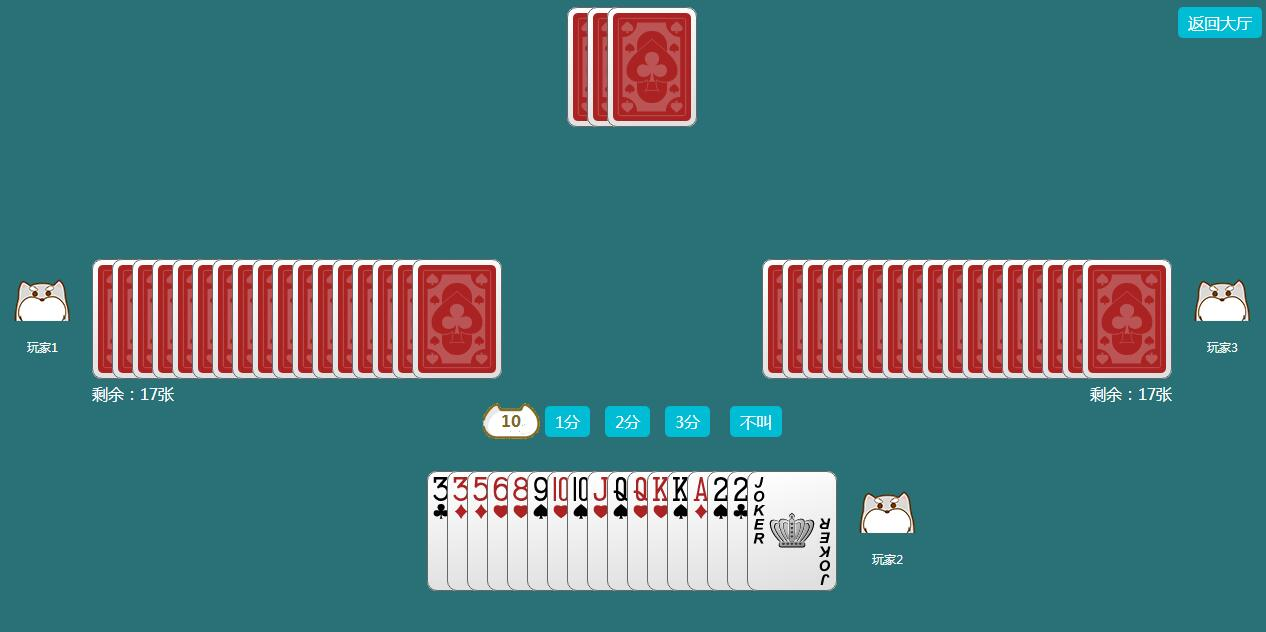
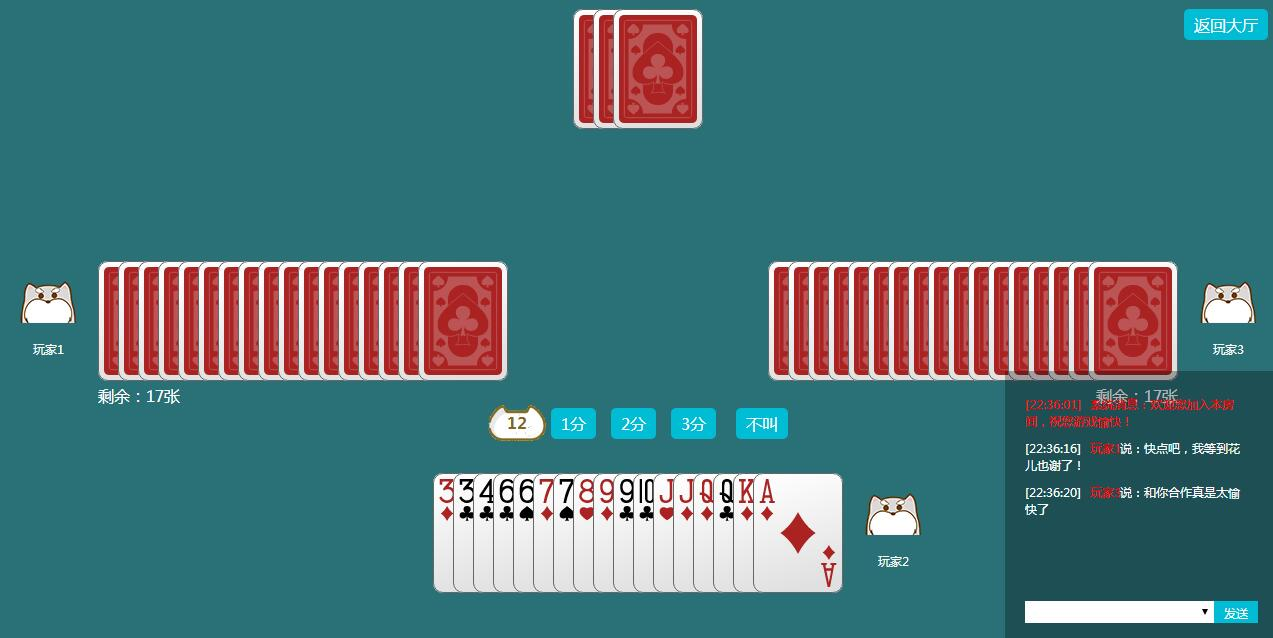
fixbug&add quick-join function

diff --git a/static/index.html b/static/index.html
@@ -3,19 +3,19 @@
 
 <head>
   <meta charset="UTF-8">
-  <meta name="viewport" content="width=device-width, initial-scale=1.0">
+  <meta name="viewport" content="width=device-width, initial-scale=1.0, minimum-scale=1.0, maximum-scale=1.0, user-scalable=no">
   <meta http-equiv="X-UA-Compatible" content="ie=edge">
-  <title>斗地主</title>
+  <title>在线斗地主</title>
   <link rel="stylesheet" href="/css/style.css">
 </head>
 
 <body>
   <div id="app" v-cloak>
-
+    <!-- 登录界面 -->
     <div class="full-screen login-wrapper" v-if="where === 0">
       <div class="login-panel  layout-center">
         <div class="row title">
-          欢迎来到Remember世界
+          登录游戏服务器
         </div>
         <div class="login-form">
           <input type="text" class="input" placeholder="给自己取一个名字" v-model.trim="posState.self.name" @keyup.enter="login"><button
@@ -27,6 +27,9 @@
 
     <!-- 大厅 -->
     <div class="full-screen house" v-if="where === 1">
+      <div class="row text-right quick-bar">
+        <button @click="quickJoin">快速加入</button>
+      </div>
       <div v-for="desk in desks" class="desk">
         <div v-for="position in desk.positions" class="position" :class="{has:position.state,position0:position.posId === 0,position1:position.posId === 1,position2:position.posId === 2}">
           <span class="position-image" :class="{has:position.state}" @click="sitDown(desk.deskId,position)">
@@ -185,13 +188,13 @@
       <div class="msg-box">
         <div class="msg-list scroll-bar" ref="msgBox">
           <div class="msg-item" v-for="msg in msgList" :key="msg.id">
-            <span  v-if="msg.type === 'USER'">
-                <span class="msg-item-time">[{{msg.time}}]</span>
-                <span style="color:red">{{msg.name}}</span> 说：{{msg.content}}
+            <span v-if="msg.type === 'USER'">
+              <span class="msg-item-time">[{{msg.time}}]</span>
+              <span style="color:red">{{msg.name}}</span> 说：{{msg.content}}
             </span>
             <span style="color:red;padding:15px 0" v-if="msg.type === 'SYS'">
-                <span class="msg-item-time">[{{msg.time}}] </span>系统消息：{{msg.content}}
-              </span>
+              <span class="msg-item-time">[{{msg.time}}] </span>系统消息：{{msg.content}}
+            </span>
           </div>
         </div>
         <input type="text" class="input msg-input" ref="msgInput" @keyup.enter="sendMessage(false)">
@@ -224,10 +227,12 @@
       data: function () {
         return {
           msgBox: [
-            '我住优客逸家2年了',
-            '优客逸家的服务还是可以！',
-            '优客的的官方APP是‘喵了隔壁’？',
-            '喵了隔壁的，该你出牌了'
+            '你的牌打得太好了',
+            '快点吧，我等到花儿也谢了！',
+            '不要走，决战到天亮。',
+            '和你合作真是太愉快了',
+            '你是GG还是MM？',
+            '不要吵了，专心玩游戏吧！',
           ],
           msgList: [],//聊天消息
 
@@ -312,6 +317,15 @@
           this.client.on('LOGIN_FAIL', function (data) {
             layer.closeAll();
             layer.msg(data.msg);
+          }.bind(this));
+
+          this.client.on('QUICK_JOIN', function (data) {
+            if (data.success) {
+              this.client.emit('SITDOWN', { deskId: data.deskId, posId: data.posId })
+            } else {
+              layer.closeAll();
+              layer.msg('快速加入失败');
+            }
           }.bind(this));
 
 
@@ -750,6 +764,10 @@
           if (msg) {
             this.client.emit('USER_MESSAGE', msg);
           }
+        },
+        quickJoin: function () {
+          layer.load({ type: 3 });
+          this.client.emit('QUICK_JOIN');
         }
       }
     })

diff --git a/server.js b/server.js
@@ -44,7 +44,7 @@ var guid = function () {
 function GameServer(port) {
   this.clients = [];
   this.port = port;
-  this.desks = createDeskList(100);
+  this.desks = createDeskList(20);
   this.gameDatas = {};
 }
 const proto = {
@@ -212,6 +212,35 @@ const proto = {
         }
       });
 
+      //快速加入
+      socket.on('QUICK_JOIN', () => {
+        var ret = [];
+        this.desks.forEach(desk => {
+          let n = 0;
+          let item = {
+            deskId: desk.deskId,
+            positions: []
+          };
+          const positions = desk.positions;
+          positions.forEach(pos => {
+            if (pos.state > 0) {
+              n++;
+            } else {
+              item.positions.push(pos.posId)
+            }
+          });
+          if (n <= 2) {
+            ret.push(item);
+          }
+        });
+        ret = ret.sort((a, b) => {
+          return a.positions.length - b.positions.length;
+        });
+        const matched = ret.length ? ret[0] : false;
+        const data = matched ? { deskId: matched.deskId, posId: matched.positions[0], success: true } : { success: false }
+        socket.emit('QUICK_JOIN', data)
+
+      });
 
       socket.on('SITDOWN', data => {
         const client = this.getClient(socket);
@@ -237,7 +266,8 @@ const proto = {
           this.broadCastRoom("POS_STATUS_CHANGE", deskId, { posId, state: 1, userName: this.getUserName(socket) }, socket);
 
           //推送一条无关紧要的消息
-          socket.emit('USER_MESSAGE', { type: 'SYS', posId, msg: '欢迎来到we remember项目，租房时代的美好回忆！', id: guid(), time: time() })
+          socket.emit('USER_MESSAGE', { type: 'SYS', posId, msg: '欢迎您加入本房间，祝您游戏愉快！', id: guid(), time: time() });
+          this.broadCastRoom('USER_MESSAGE', deskId, { type: 'SYS', posId, msg: `玩家[${this.getUserName(socket)}]进入房间`, id: guid(), time: time() }, socket);
         } else {
           //通知该客户端此座位被人占用
           socket.emit('SITDOWN_ERROR', { msg: '该位置已有人' });
@@ -294,7 +324,7 @@ const proto = {
 
 
         //推送一条无关紧要的消息
-        this.broadCastRoom('USER_MESSAGE', deskId, { type: 'SYS', posId, msg: '玩家 ' + this.getUserName(socket) + ' 退出房间', id: guid(), time: time() })
+        this.broadCastRoom('USER_MESSAGE', deskId, { type: 'SYS', posId, msg: `玩家[${this.getUserName(socket)}]退出房间`, id: guid(), time: time() })
       });
 
       socket.on('PREPARE', data => {
@@ -363,7 +393,7 @@ const proto = {
           this.broadCastRoom('MESSAGE', deskId, { msg: '没有玩家叫分，重新发牌' });
           this.startGame(deskId);
           //推送一条无关紧要的消息
-          this.broadCastRoom('USER_MESSAGE', deskId, { type: 'SYS', msg: '本局游戏无人叫分，重新发牌', id: guid(), time: time() })
+          this.broadCastRoom('USER_MESSAGE', deskId, { type: 'SYS', posId, msg: '本局游戏无人叫分，重新发牌', id: guid(), time: time() })
 
         }
       });
@@ -417,6 +447,7 @@ const proto = {
         if (!client) {
           return;
         }
+        const userName = this.getUserName(socket);
         const { deskId, posId } = client;
         this.removeClient(socket);
 
@@ -452,6 +483,8 @@ const proto = {
               game.init();
             }
           }
+          //推送一条无关紧要的消息
+          this.broadCastRoom('USER_MESSAGE', deskId, { type: 'SYS', posId, msg: `玩家[${userName}]退出房间`, id: guid(), time: time() })
           console.log('有客户端退出房间，桌号：%s，座位：%s，时间：', deskId, posId, time());
         }
 

diff --git a/static/css/style.css b/static/css/style.css
@@ -256,6 +256,7 @@
 
         .house {
             background: #555;
+            padding-top:40px;
         }
 
         .desk {
@@ -623,6 +624,15 @@
         }
         .msg-item-time{
             padding-right: 10px;
+        }
+        .quick-bar{
+            position: fixed;
+            top: 0;
+            left: 0;
+            right: 0;
+            box-sizing: border-box;
+            padding: 5px 30px;
+            background: rgba(0,0,0,0.2);
         }
         .scroll-bar::-webkit-scrollbar {
             width: 10px;    

diff --git a/README.md b/README.md
@@ -3,8 +3,15 @@
 ### install
 ```sh
 git clone git@github.com:laivv/doudizhu.git
+cd ./doudizhu
 npm install
 ```
+### run
+```sh
+npm start
+```
+
+![image](https://raw.githubusercontent.com/laivv/doudizhu/master/static/images/game2.jpg)  
 ![image](https://raw.githubusercontent.com/laivv/doudizhu/master/static/images/game.jpg)
 ### License
 MIT
